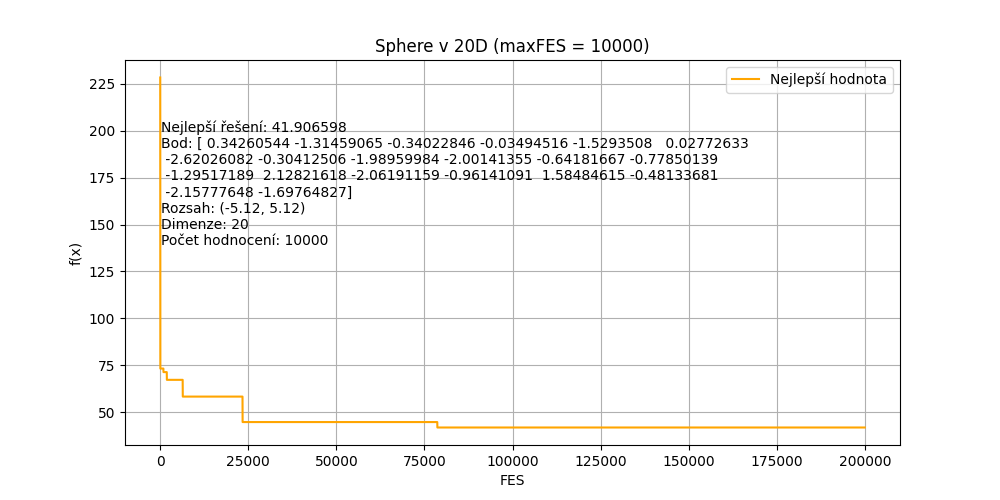
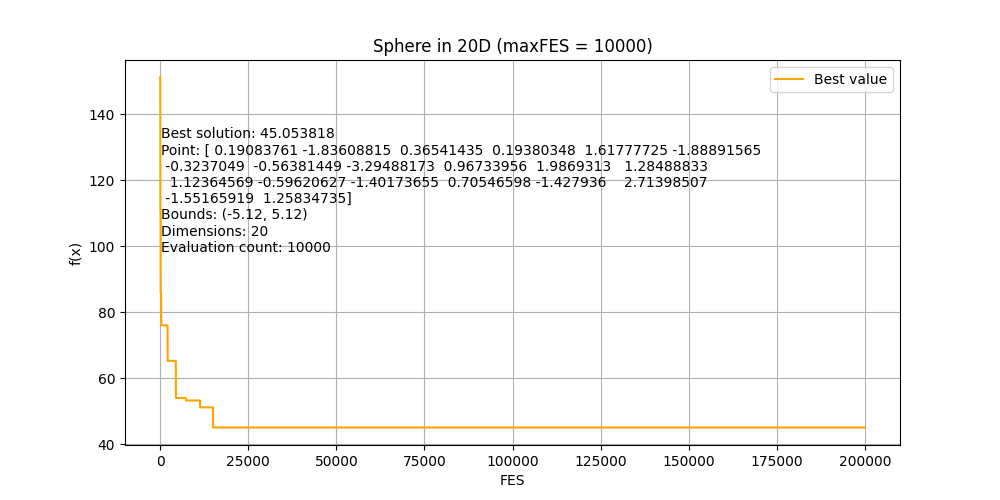
Replaced camelCase to snake_case

diff --git a/testovaciFce/main.py b/testovaciFce/main.py
@@ -7,95 +7,92 @@ import os
 
 class OptimizationFunction:
     def __init__(self, name, function, bounds):
-        self.name = name  # Název funkce
-        self.function = function  # Odkaz na výpočetní funkci
-        self.bounds = bounds  # Rozsah hodnot
+        self.name = name
+        self.function = function
+        self.bounds = bounds
 
     def evaluate(self, v):
         return self.function(v)
 
 
-def plotChart(x, y, title, xLabel, yLabel):
+def plot_chart(x, y, title, x_label, y_label):
     plt.plot(x, y)
     plt.title(title)
-    plt.xlabel(xLabel)
-    plt.ylabel(yLabel)
+    plt.xlabel(x_label)
+    plt.ylabel(y_label)
     plt.show()
 
 
-def sphereFunction(v):
+def sphere_function(v):
     return sum([x ** 2 for x in v])
 
 
-def dixonPriceFunction(v):
+def dixon_price_function(v):
     return (v[0] - 1) ** 2 + sum([i * (2 * v[i] ** 2 - v[i - 1]) ** 2 for i in range(1, len(v))])
 
 
-def michaelowiczFunction(v):
+def michaelowicz_function(v):
     return -sum([math.sin(v[i]) * math.sin((i + 1) * v[i] ** 2 / math.pi) ** 20 for i in range(len(v))])
 
 
-def styblinskiTangFunction(v):
+def styblinski_tang_function(v):
     return sum([x ** 4 - 16 * x ** 2 + 5 * x for x in v]) / 2
 
 
-def rastriginFunction(v):
+def rastrigin_function(v):
     return 10 * len(v) + sum([x ** 2 - 10 * math.cos(2 * math.pi * x) for x in v])
 
 
-def showCoveragePlot(values, maxFES, D, func_name, best_value, best_point, bounds, save=True):
+def show_coverage_plot(values, max_fes, d, func_name, best_value, best_point, bounds, save=True):
     plt.figure(figsize=(10, 5))
-    plt.plot(values, label="Nejlepší hodnota", color='orange')
+    plt.plot(values, label="Best value", color='orange')
     plt.xlabel("FES")
     plt.ylabel("f(x)")
-    plt.title(f"{func_name} v {D}D (maxFES = {maxFES})")
+    plt.title(f"{func_name} in {d}D (maxFES = {max_fes})")
     plt.legend()
     plt.grid()
 
-    # Připravení textu pro zobrazení v grafu
     settings_text = (
-        f"Nejlepší řešení: {best_value:.6f}\n"
-        f"Bod: {best_point}\n"
-        f"Rozsah: {bounds}\n"
-        f"Dimenze: {D}\n"
-        f"Počet hodnocení: {maxFES}"
+        f"Best solution: {best_value:.6f}\n"
+        f"Point: {best_point}\n"
+        f"Bounds: {bounds}\n"
+        f"Dimensions: {d}\n"
+        f"Evaluation count: {max_fes}"
     )
 
-    # Vykreslení textu do grafu
-    plt.text(0.02 * maxFES, 0.9 * max(values), settings_text, fontsize=10, verticalalignment='top')
+    plt.text(0.02 * max_fes, 0.9 * max(values), settings_text, fontsize=10, verticalalignment='top')
 
     if save:
         os.mkdir("charts") if not os.path.exists("charts") else None
-        plt.savefig(f"charts/convergence_{func_name}_{D}D.png")
+        plt.savefig(f"charts/convergence_{func_name}_{d}D.png")
     else:
         plt.show()
 
 
 if __name__ == '__main__':
     dimensions = [5, 10, 20]
-    maxFES_per_D = 10000
+    max_fes_per_d = 10000
     functions = [
-        OptimizationFunction("Sphere", sphereFunction, (-5.12, 5.12)),
-        OptimizationFunction("Dixon-Price", dixonPriceFunction, (-10, 10)),
-        OptimizationFunction("Michaelowicz", michaelowiczFunction, (0, math.pi)),
-        OptimizationFunction("Styblinski-Tang", styblinskiTangFunction, (-5, 5)),
-        OptimizationFunction("Rastrigin", rastriginFunction, (-5.12, 5.12))
+        OptimizationFunction("Sphere", sphere_function, (-5.12, 5.12)),
+        OptimizationFunction("Dixon-Price", dixon_price_function, (-10, 10)),
+        OptimizationFunction("Michaelowicz", michaelowicz_function, (0, math.pi)),
+        OptimizationFunction("Styblinski-Tang", styblinski_tang_function, (-5, 5)),
+        OptimizationFunction("Rastrigin", rastrigin_function, (-5.12, 5.12))
     ]
 
     results = []
     convergence_data = {}
 
-    # Algoritmus náhodného prohledávání
     for d in dimensions:
-        maxFES = maxFES_per_D * d
-        for optFunction in functions:
+        max_fes = max_fes_per_d * d
+        for opt_function in functions:
             best_value = float("inf")
             best_point = None
             values_over_time = []
 
-            for _ in range(maxFES):
-                candidate = np.random.uniform(optFunction.bounds[0], optFunction.bounds[1], d)
-                value = optFunction.evaluate(candidate)
+            for _ in range(max_fes):
+                candidate = np.random.uniform(opt_function.bounds[0], opt_function.bounds[1], d)
+                value = opt_function.evaluate(candidate)
 
                 if value < best_value:
                     best_value = value
@@ -103,40 +100,19 @@ if __name__ == '__main__':
 
                 values_over_time.append(best_value)
 
-            # Uložení výsledků
             results.append({
-                "Funkce": optFunction.name,
-                "Dimenze": d,
-                "Nejlepší hodnota": best_value,
-                "Nejlepší bod": best_point
+                "Function": opt_function.name,
+                "Dimensions": d,
+                "Best Value": best_value,
+                "Best Point": best_point
             })
 
-            # Uložení průběhu konvergence
-            convergence_data[(optFunction.name, d, optFunction.bounds)] = (values_over_time, best_value, best_point)
+            convergence_data[(opt_function.name, d, opt_function.bounds)] = (values_over_time, best_value, best_point)
 
-    # Převedení výsledků do DataFrame
     df_results = pd.DataFrame(results)
     print(df_results)
 
-    for (func_name, D, bounds), (values, best_value, best_point) in convergence_data.items():
-        showCoveragePlot(values, maxFES_per_D, D, func_name, best_value, best_point, bounds, save=True)
-
-    '''
-    vector = np.random.rand(5)
-    sphereFunctionX = np.linspace(-5.12, 5.12, 100)
-    plotChart(sphereFunctionX, [sphereFunction([x]) for x in sphereFunctionX], 'Sphere Function', 'x', 'f(x)')
-
-    dixonPriceFunctionX = np.linspace(-10, 10, 100)
-    plotChart(dixonPriceFunctionX, [dixonPriceFunction([x]) for x in dixonPriceFunctionX], 'Dixon-Price Function', 'x',
-              'f(x)')
-
-    michaelowiczFunctionX = np.linspace(0, math.pi, 100)
-    plotChart(michaelowiczFunctionX, [michaelowiczFunction([x]) for x in michaelowiczFunctionX],
-              'Michaelowicz Function', 'x', 'f(x)')
-
-    styblinskiTangFunctionX = np.linspace(-5, 5, 100)
-    plotChart(styblinskiTangFunctionX, [styblinskiTangFunction([x]) for x in styblinskiTangFunctionX],
-              'Styblinski-Tang Function', 'x', 'f(x)')
-    '''
+    for (func_name, d, bounds), (values, best_value, best_point) in convergence_data.items():
+        show_coverage_plot(values, max_fes_per_d, d, func_name, best_value, best_point, bounds, save=True)
 
     print("Sphere Function")
